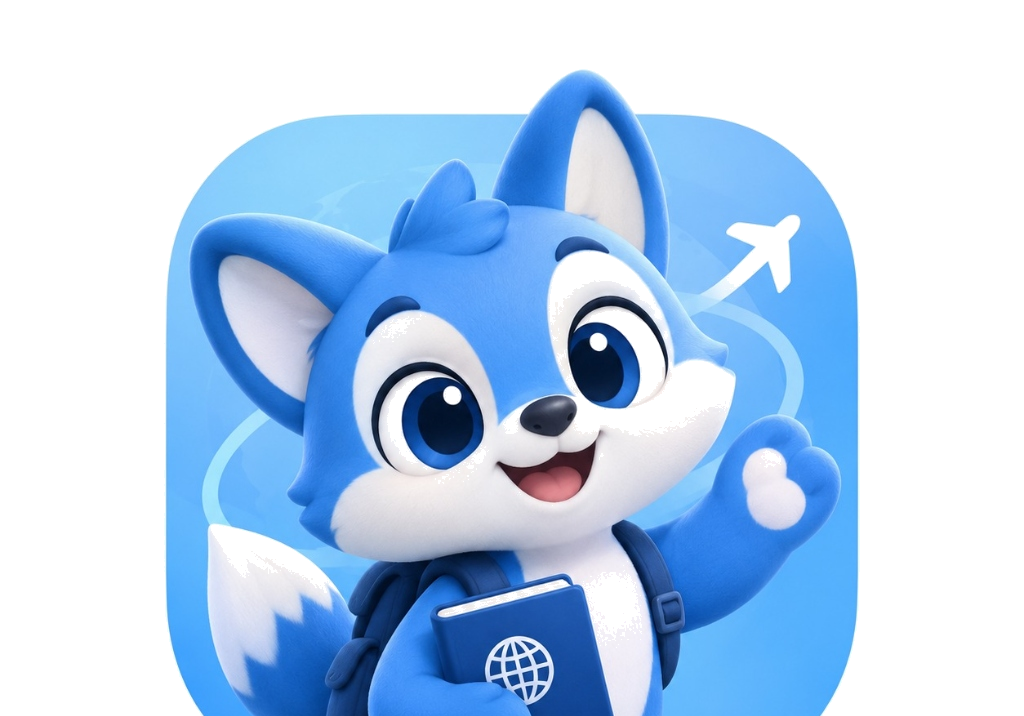
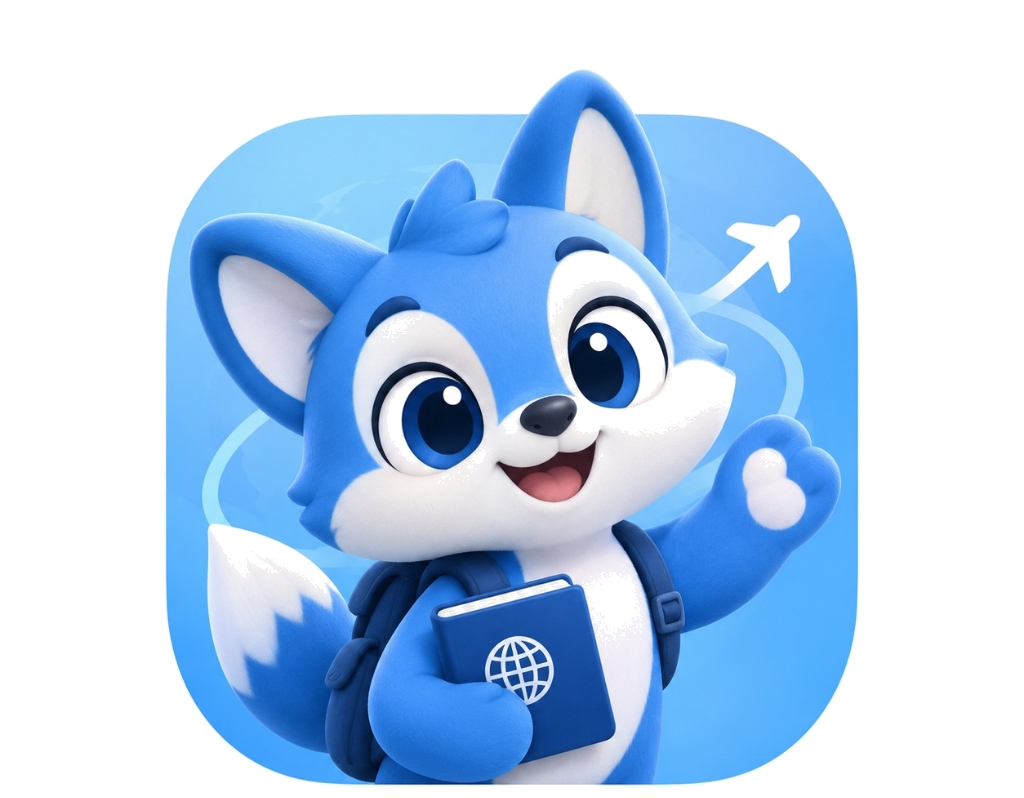
style: fix mascot crop bounds to 78 percent and blend blue background

diff --git a/apps/web/app/page.tsx b/apps/web/app/page.tsx
@@ -20,9 +20,9 @@ export default function LandingPage() {
         <div className="grid md:grid-cols-2 gap-8 md:gap-16 items-center w-full">
           {/* Left: Mascot/Graphic */}
           <div className="flex justify-center order-2 md:order-1">
-            <div className="relative w-72 h-72 md:w-96 md:h-96 bg-[#ddf4ff] rounded-full flex items-center justify-center shadow-[0_0_80px_-15px_rgba(28,176,246,0.4)] animate-bounce" style={{ animationDuration: '3s' }}>
-              <Image src="/mascot.png?v=2" alt="Movelingo Mascot" width={300} height={300} className="w-56 h-56 md:w-72 md:h-72 object-contain translate-y-6 md:translate-y-8" style={{ WebkitMaskImage: 'linear-gradient(to bottom, black 80%, transparent 100%)', maskImage: 'linear-gradient(to bottom, black 80%, transparent 100%)' }} priority />
-              <div className="absolute top-4 right-0 md:-right-8 bg-white px-6 py-4 rounded-2xl rounded-bl-none shadow-xl border-2 border-slate-200 font-extrabold text-slate-700 text-lg animate-pulse" style={{ animationDuration: '2.5s' }}>
+            <div className="relative w-72 h-72 md:w-96 md:h-96 bg-[#ddf4ff] rounded-full flex items-center justify-center shadow-[0_0_80px_-15px_rgba(28,176,246,0.4)] animate-bounce overflow-hidden" style={{ animationDuration: '3s' }}>
+              <Image src="/mascot.png?v=3" alt="Movelingo Mascot" width={300} height={300} className="w-56 h-56 md:w-72 md:h-72 object-contain translate-y-6 md:translate-y-8 mix-blend-darken scale-125" style={{ WebkitMaskImage: 'radial-gradient(circle at center, black 40%, transparent 70%)', maskImage: 'radial-gradient(circle at center, black 40%, transparent 70%)' }} priority />
+              <div className="absolute top-4 right-0 md:-right-8 bg-white px-6 py-4 rounded-2xl rounded-bl-none shadow-xl border-2 border-slate-200 font-extrabold text-slate-700 text-lg animate-pulse z-10" style={{ animationDuration: '2.5s' }}>
                 Move fast. Learn right.
               </div>
             </div>

diff --git a/process_new_mascot.py b/process_new_mascot.py
@@ -20,12 +20,12 @@ try:
     
     width, height = img.size
     
-    # Crop the top 70% for the mascot
-    mascot_crop = img.crop((0, 0, width, int(height * 0.70)))
+    # Crop the top 78% for the mascot
+    mascot_crop = img.crop((0, 0, width, int(height * 0.78)))
     mascot_nobg = remove_white_bg(mascot_crop)
     
-    # Crop the bottom 30% for the logo text
-    logo_crop = img.crop((0, int(height * 0.70), width, height))
+    # Crop the bottom 22% for the logo text
+    logo_crop = img.crop((0, int(height * 0.78), width, height))
     logo_nobg = remove_white_bg(logo_crop)
 
     # Save them
